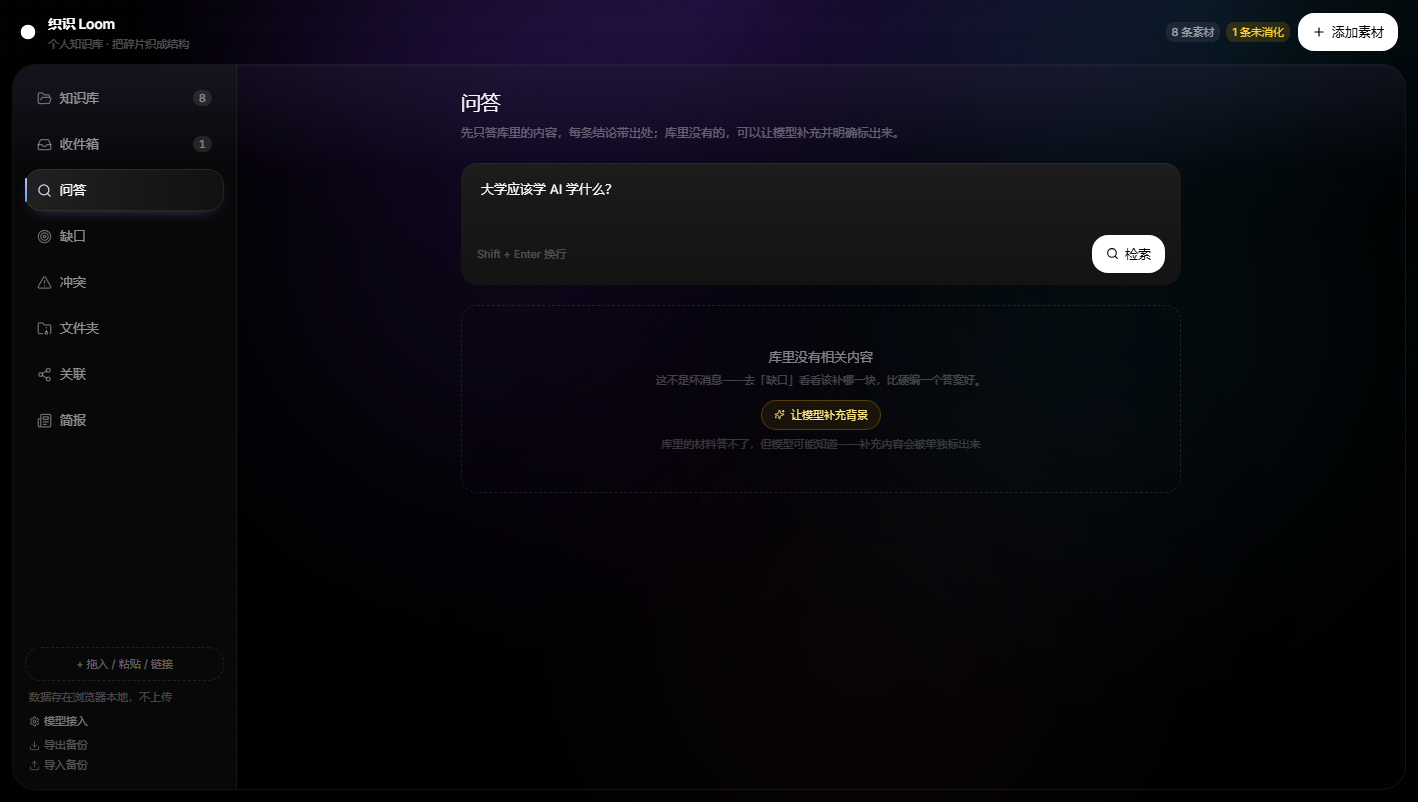
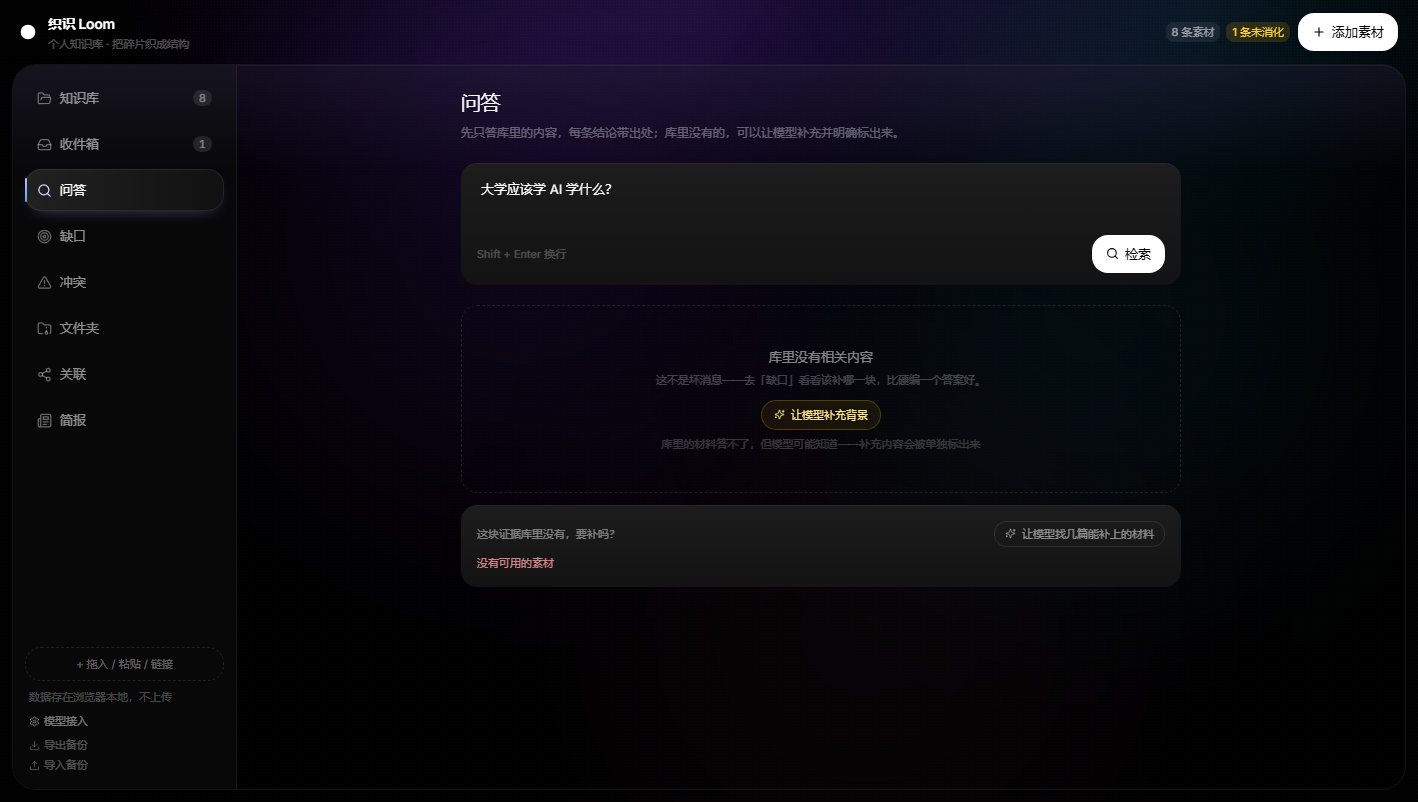
fix: suggest 任务允许零素材

Changed region(s): [[0.3103, 0.6234, 0.5585, 0.717], [0.7137, 0.6234, 0.8378, 0.6858]]

diff --git a/app/api/generate/route.ts b/app/api/generate/route.ts
@@ -177,7 +177,8 @@ export async function POST(request: Request) {
   }
   // 只有「answer」允许零素材：此时全部内容都应落在库外补充里。
   // 其他任务（brief / intent / conflict）必须有素材，否则没有意义。
-  if (sources.length === 0 && task !== "brief" && task !== "answer") {
+  // 允许零素材的任务：简报（只用统计）、问答与补充建议（内容落库外）
+  if (sources.length === 0 && !["brief", "answer", "suggest"].includes(task)) {
     return NextResponse.json({ error: "没有可用的素材" }, { status: 400 });
   }
 
